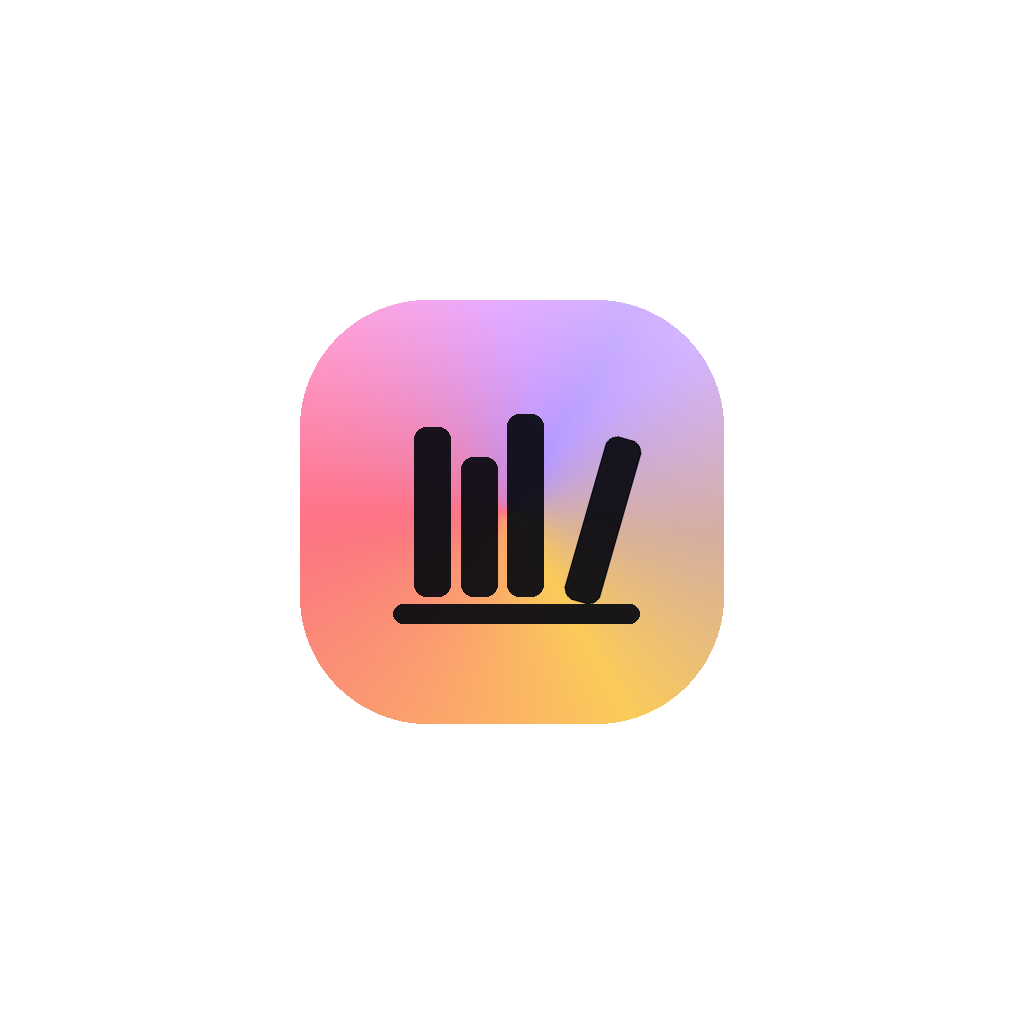
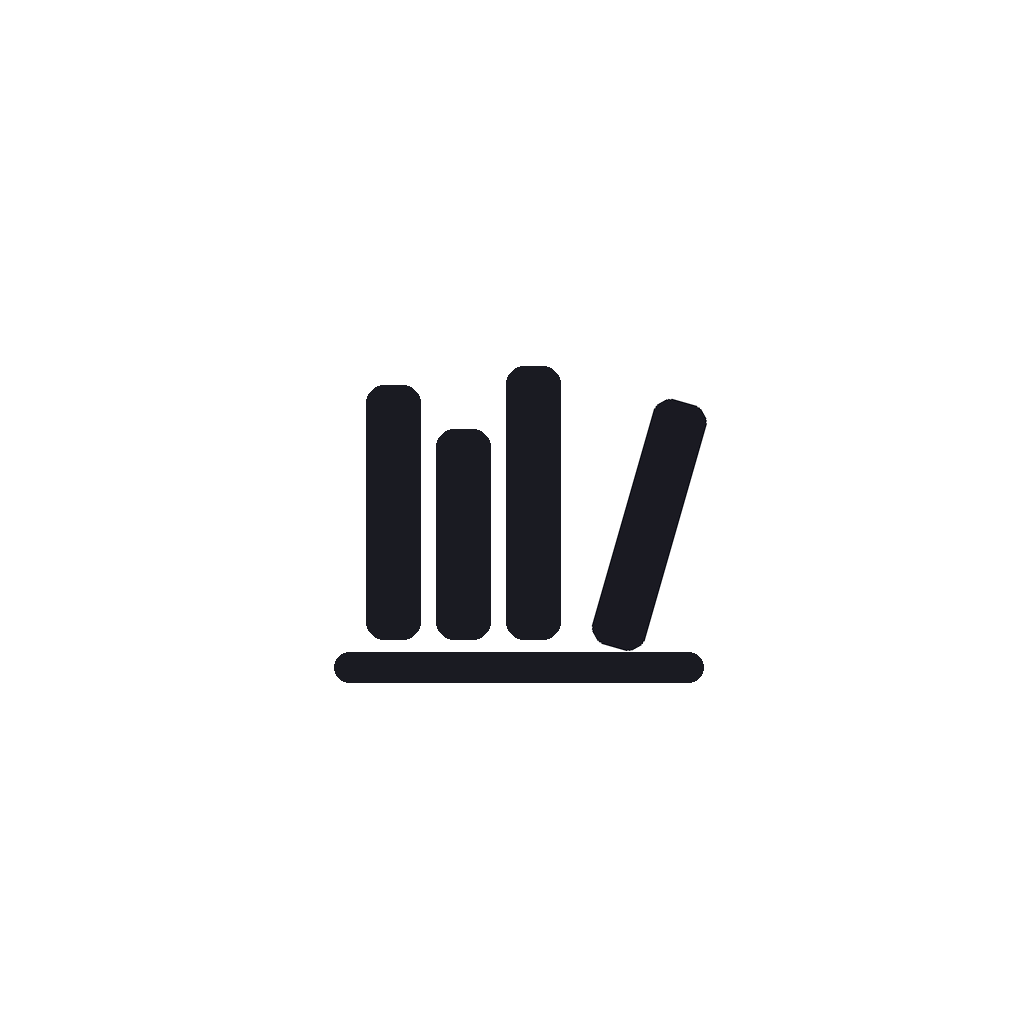
Mobile: ícone sem borda preta e menu inferior mais espaçoso
Ícone adaptativo com o degradê como fundo de ponta a ponta e a prateleira
na zona segura; menu ocupa a largura da tela no celular, com ícones maiores
e rótulos curtos.

Claude-Session: https://claude.ai/code/session_015sFBZCFgEcZiLVJsMqTqY8

Changed region(s): [[0.2812, 0.2812, 0.7188, 0.7188]]

diff --git a/src/components/Dock.tsx b/src/components/Dock.tsx
@@ -1,21 +1,24 @@
 import { CalendarDays, House } from 'lucide-react';
-import { GROUPS, ORDER } from '../data/catalog';
+import { GROUPS } from '../data/catalog';
 import { useLibrary, type Tab } from '../store/useLibrary';
 import { GROUP_ICON } from './icons';
 
-const TABS: [Tab, string, any, string][] = [
-  ['inicio', 'Início', House, 'var(--fg)'],
-  ...ORDER.map(u => [u, GROUPS[u].short, GROUP_ICON[u], GROUPS[u].color] as [Tab, string, any, string]),
-  ['diario', 'Diário', CalendarDays, 'var(--fg)']
+// [aba, rótulo, rótulo curto (celular), ícone, cor]
+const TABS: [Tab, string, string, any, string][] = [
+  ['inicio', 'Início', 'Início', House, 'var(--fg)'],
+  ['tela', GROUPS.tela.label, 'Filmes', GROUP_ICON.tela, GROUPS.tela.color],
+  ['jogos', 'Jogos', 'Jogos', GROUP_ICON.jogos, GROUPS.jogos.color],
+  ['livros', 'Livros', 'Livros', GROUP_ICON.livros, GROUPS.livros.color],
+  ['diario', 'Diário', 'Diário', CalendarDays, 'var(--fg)']
 ];
 
 export function Dock() {
   const { tab, setTab } = useLibrary();
   return (
     <nav className="dock glass" aria-label="Seções">
-      {TABS.map(([k, l, Icon, col]) => (
-        <button key={k} className={tab === k ? 'on' : ''} style={{ ['--uc' as any]: col }} aria-current={tab === k ? 'page' : undefined} onClick={() => tab !== k && setTab(k)}>
-          <Icon className="i" aria-hidden /><span>{l}</span>
+      {TABS.map(([k, l, sh, Icon, col]) => (
+        <button key={k} className={tab === k ? 'on' : ''} style={{ ['--uc' as any]: col }} aria-current={tab === k ? 'page' : undefined} aria-label={l} onClick={() => tab !== k && setTab(k)}>
+          <Icon className="i" aria-hidden /><span className="lg">{l}</span><span className="sm">{sh}</span>
         </button>
       ))}
     </nav>

diff --git a/src/styles/liquid.css b/src/styles/liquid.css
@@ -487,3 +487,14 @@ select.plain option{background:var(--opt);color:var(--fg)}
 
 /* app: botões de link sem estilo nativo */
 .sh-link,.pill-btn,.qbtn{-webkit-appearance:none;appearance:none}
+
+/* ---------- Menu inferior: mais espaço no celular ---------- */
+.dock .sm{display:none}
+@media (max-width:640px){
+  .dock{left:max(12px,env(safe-area-inset-left,0px));right:max(12px,env(safe-area-inset-right,0px));transform:none;max-width:none;justify-content:space-between;gap:4px;padding:7px;border-radius:28px;bottom:calc(10px + var(--sab))}
+  .dock button{flex:1 1 0;min-width:0;padding:10px 0 9px;gap:5px;font-size:11.5px;letter-spacing:0;border-radius:22px}
+  .dock svg.i{width:23px;height:23px}
+  .dock .lg{display:none}
+  .dock .sm{display:block}
+  .app{padding-bottom:calc(120px + var(--sab))}
+}
